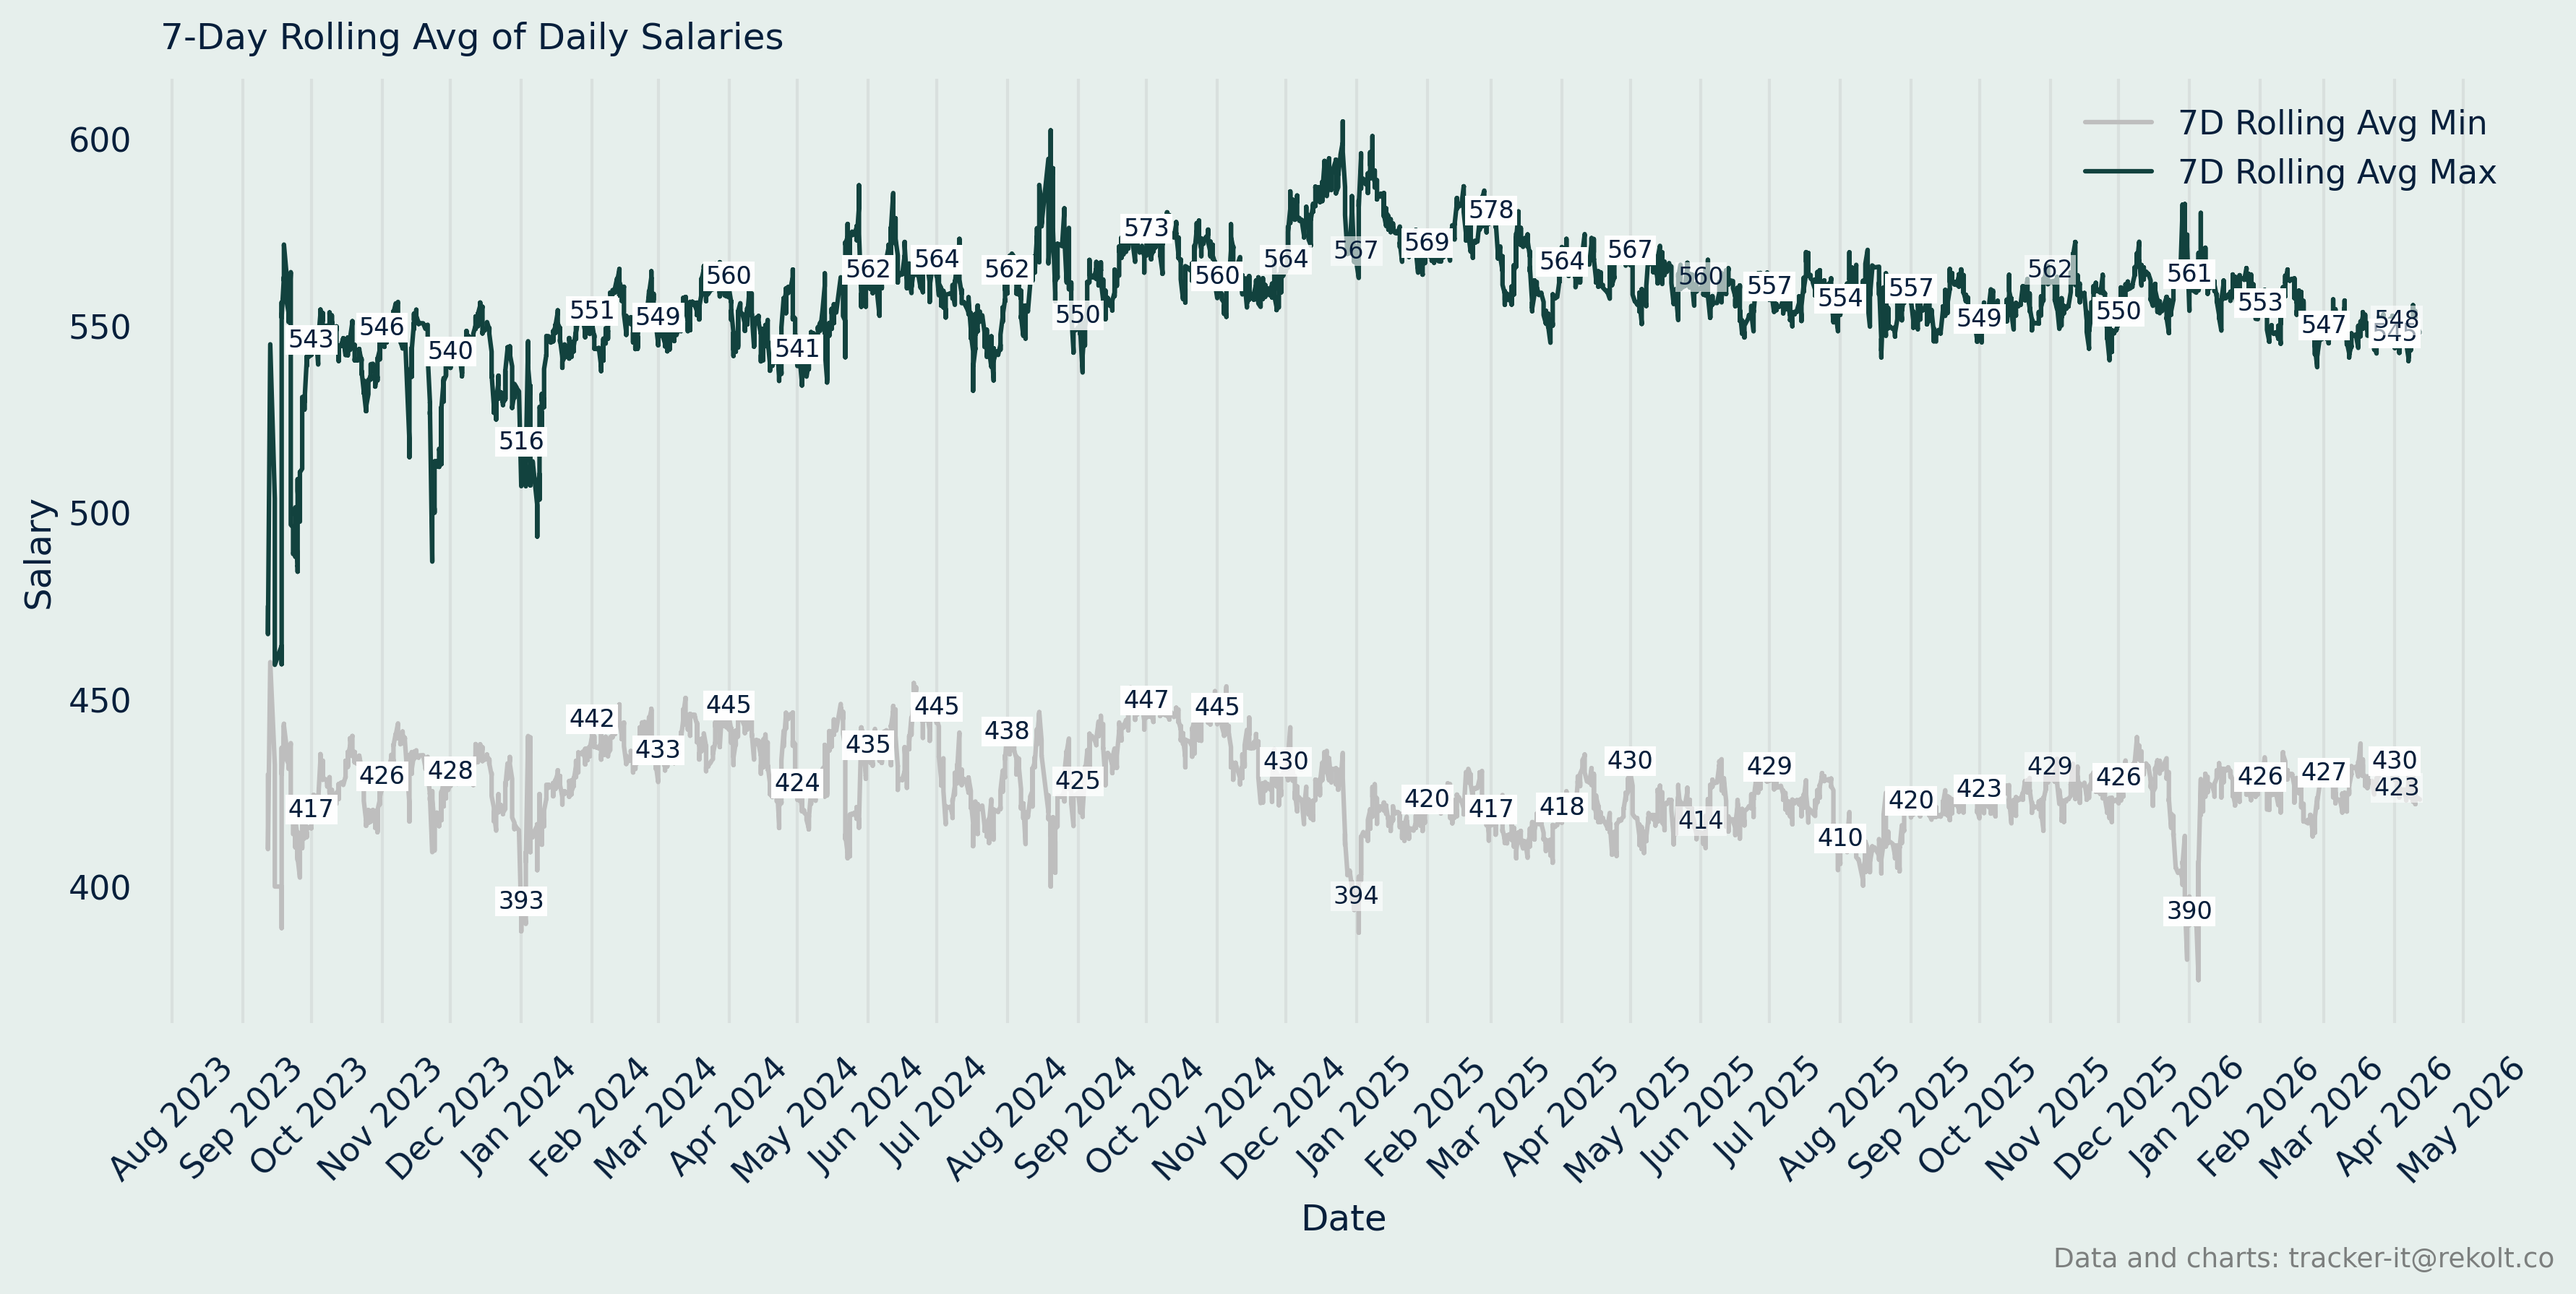
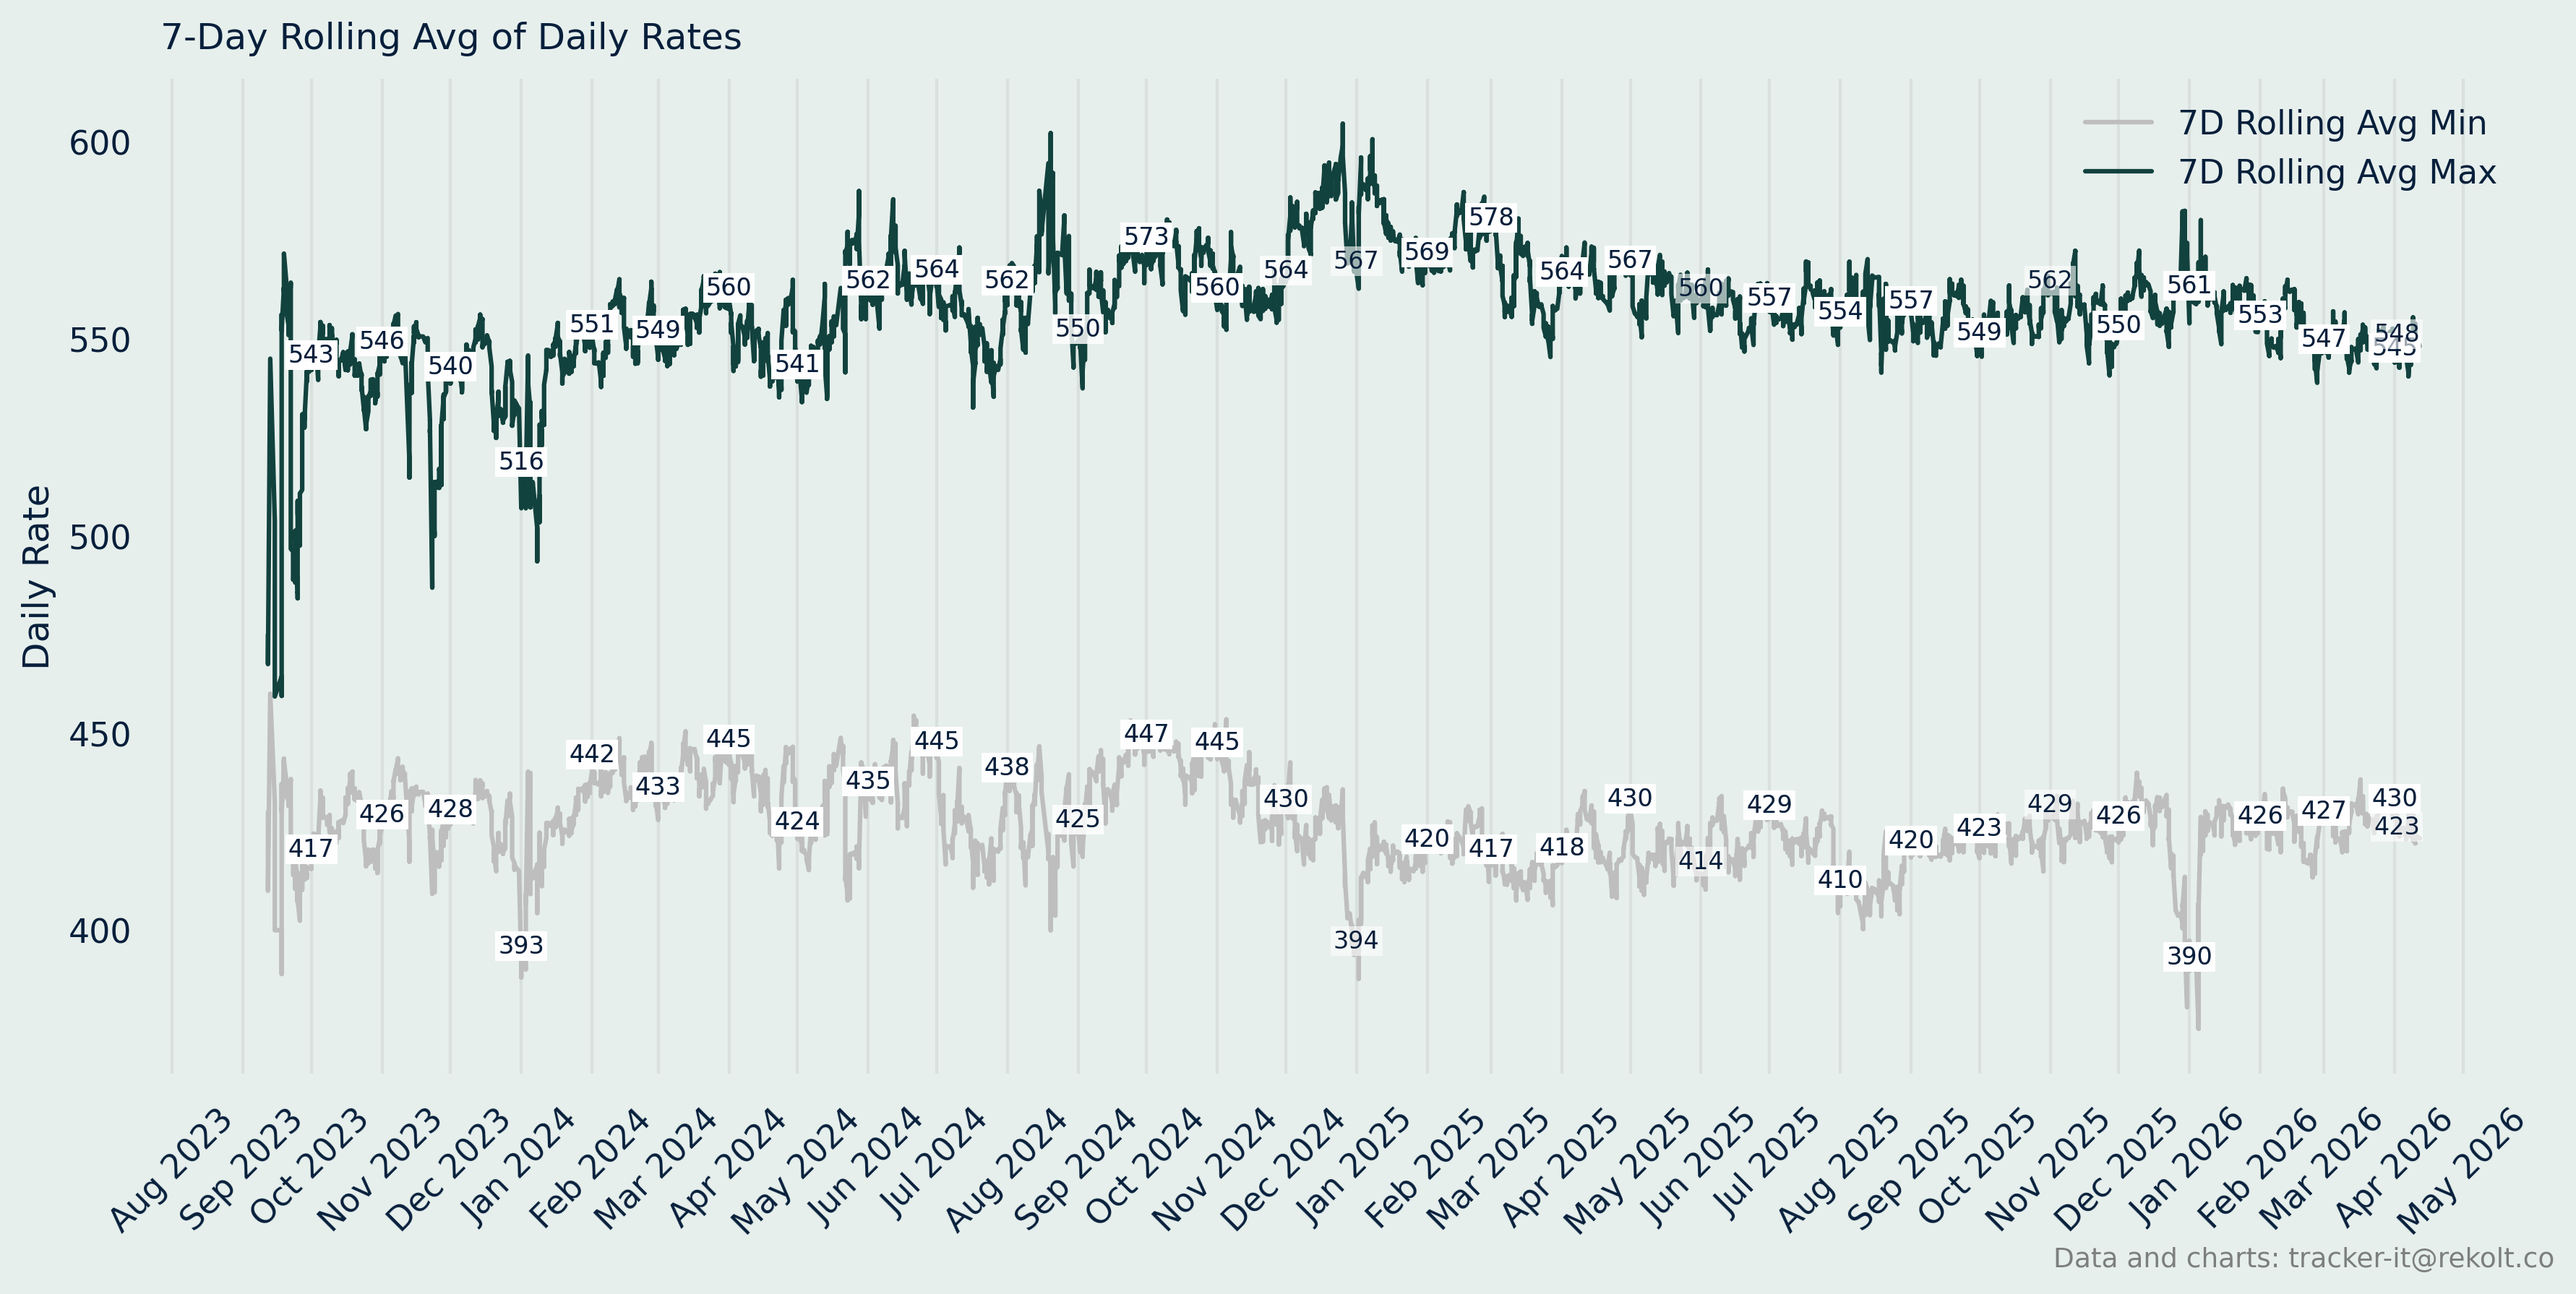
minor edits in charts

diff --git a/tracker/20260406_tracker.md b/tracker/20260406_tracker.md
@@ -20,9 +20,9 @@ This report includes insights on job postings, remote work trends, salary analys
 
 ```markdown
 📈 Comparison Summary
-2024: 9 weeks, 18732 total jobs, avg 2081 jobs/week
-2025: 9 weeks, 14933 total jobs, avg 1659 jobs/week
-2026: 9 weeks, 18824 total jobs, avg 2092 jobs/week
+2024: 14 weeks, 31292 total jobs, avg 2235 jobs/week
+2025: 14 weeks, 24544 total jobs, avg 1753 jobs/week
+2026: 14 weeks, 28984 total jobs, avg 2070 jobs/week
 
 ```
 
@@ -45,7 +45,7 @@ Growth: +16.1%
 
 ```markdown
 
-📊 Monthly Job Postings Summary:
+Monthly Job Postings Summary:
 Jan: 2024=9877, 2025=8438, 2026=8088
 Feb: 2024=9128, 2025=6873, 2026=8786
 Mar: 2024=8794, 2025=7316, 2026=9243
@@ -67,7 +67,7 @@ Dec: 2024=6013, 2025=6401, 2026=  0
 
 ```markdown
 
-📊 Remote vs Onsite Job Postings Percentage Summary:
+Remote vs Onsite Job Postings Percentage Summary:
 2025: 5200 total pct-weeks
 	 full: avg 2.4% per week
 	 none: avg 26.7% per week
@@ -103,22 +103,22 @@ Dec: 2024=6013, 2025=6401, 2026=  0
 ### Annual Salary Summary
 
 ```markdown
- Annual Salary Summary:
+ Daily Rate Summary:
 2023:
-	 Average min salary: 428 
-	 Average max salary: 543 
+	 Average min daily rate: 428 
+	 Average max daily rate: 543 
 
 2024:
-	 Average min salary: 434 
-	 Average max salary: 560 
+	 Average min daily rate: 434 
+	 Average max daily rate: 560 
 
 2025:
-	 Average min salary: 421 
-	 Average max salary: 562 
+	 Average min daily rate: 421 
+	 Average max daily rate: 562 
 
 2026:
-	 Average min salary: 427 
-	 Average max salary: 552 
+	 Average min daily rate: 427 
+	 Average max daily rate: 552 
 
 ```
 
